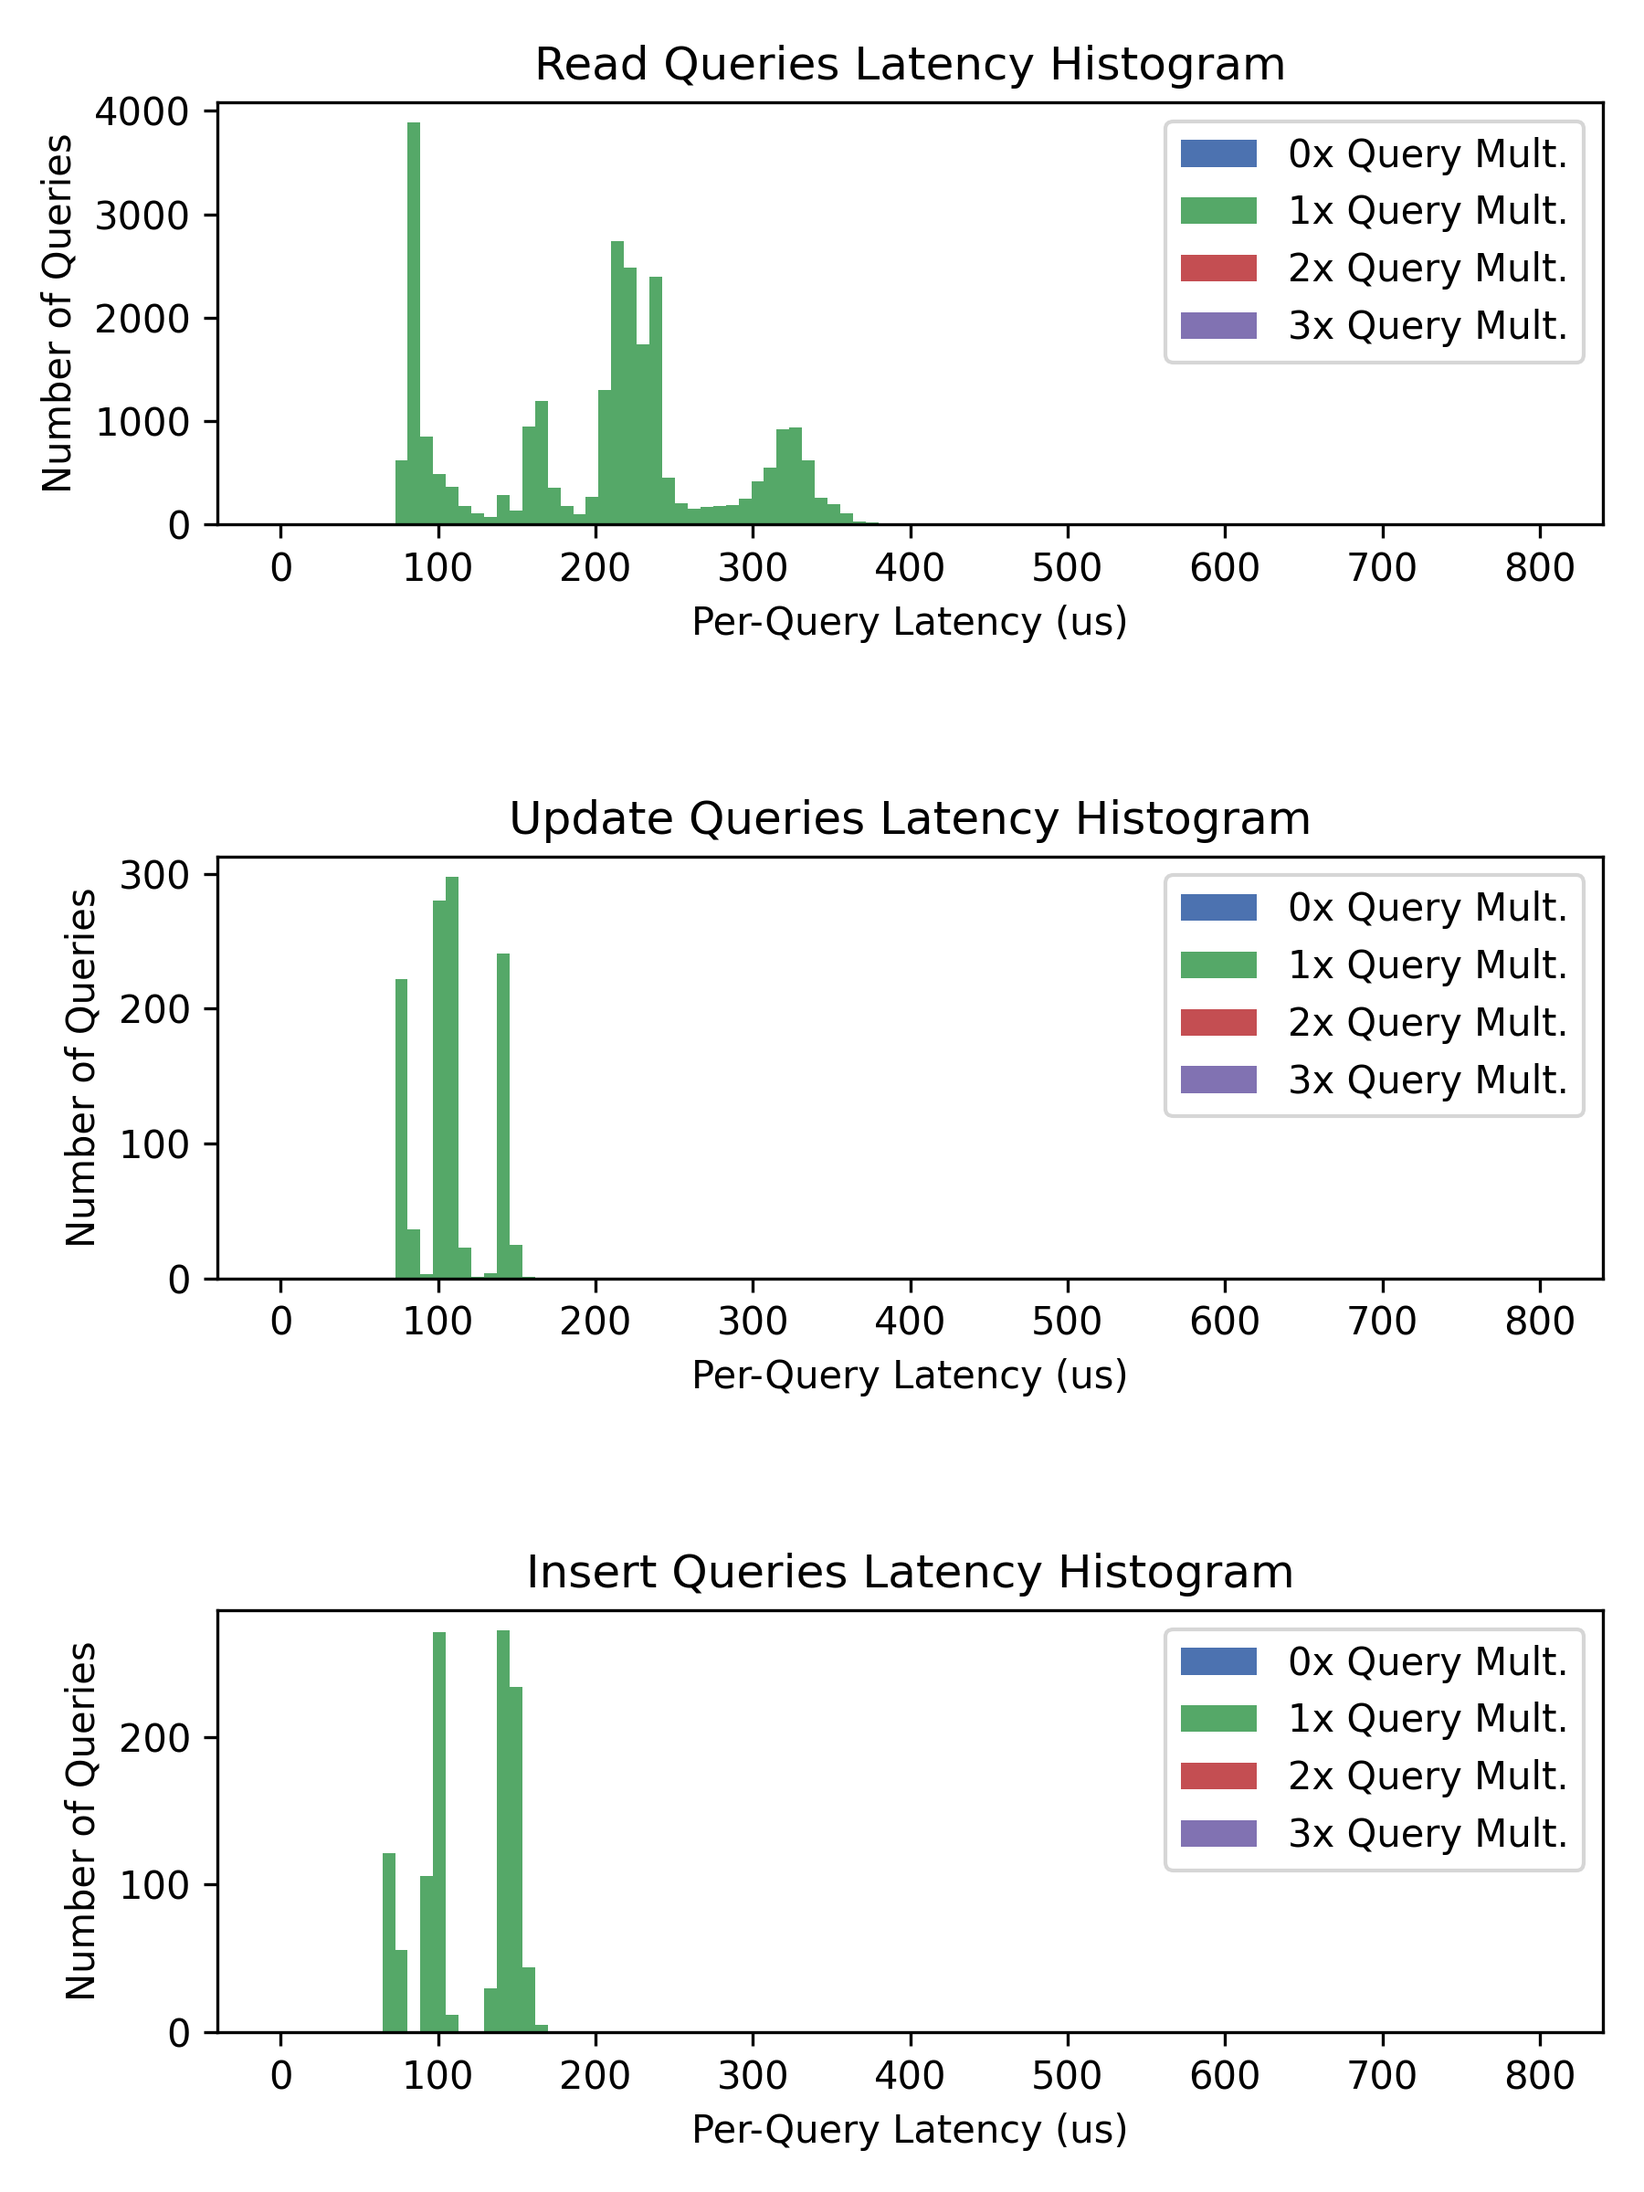
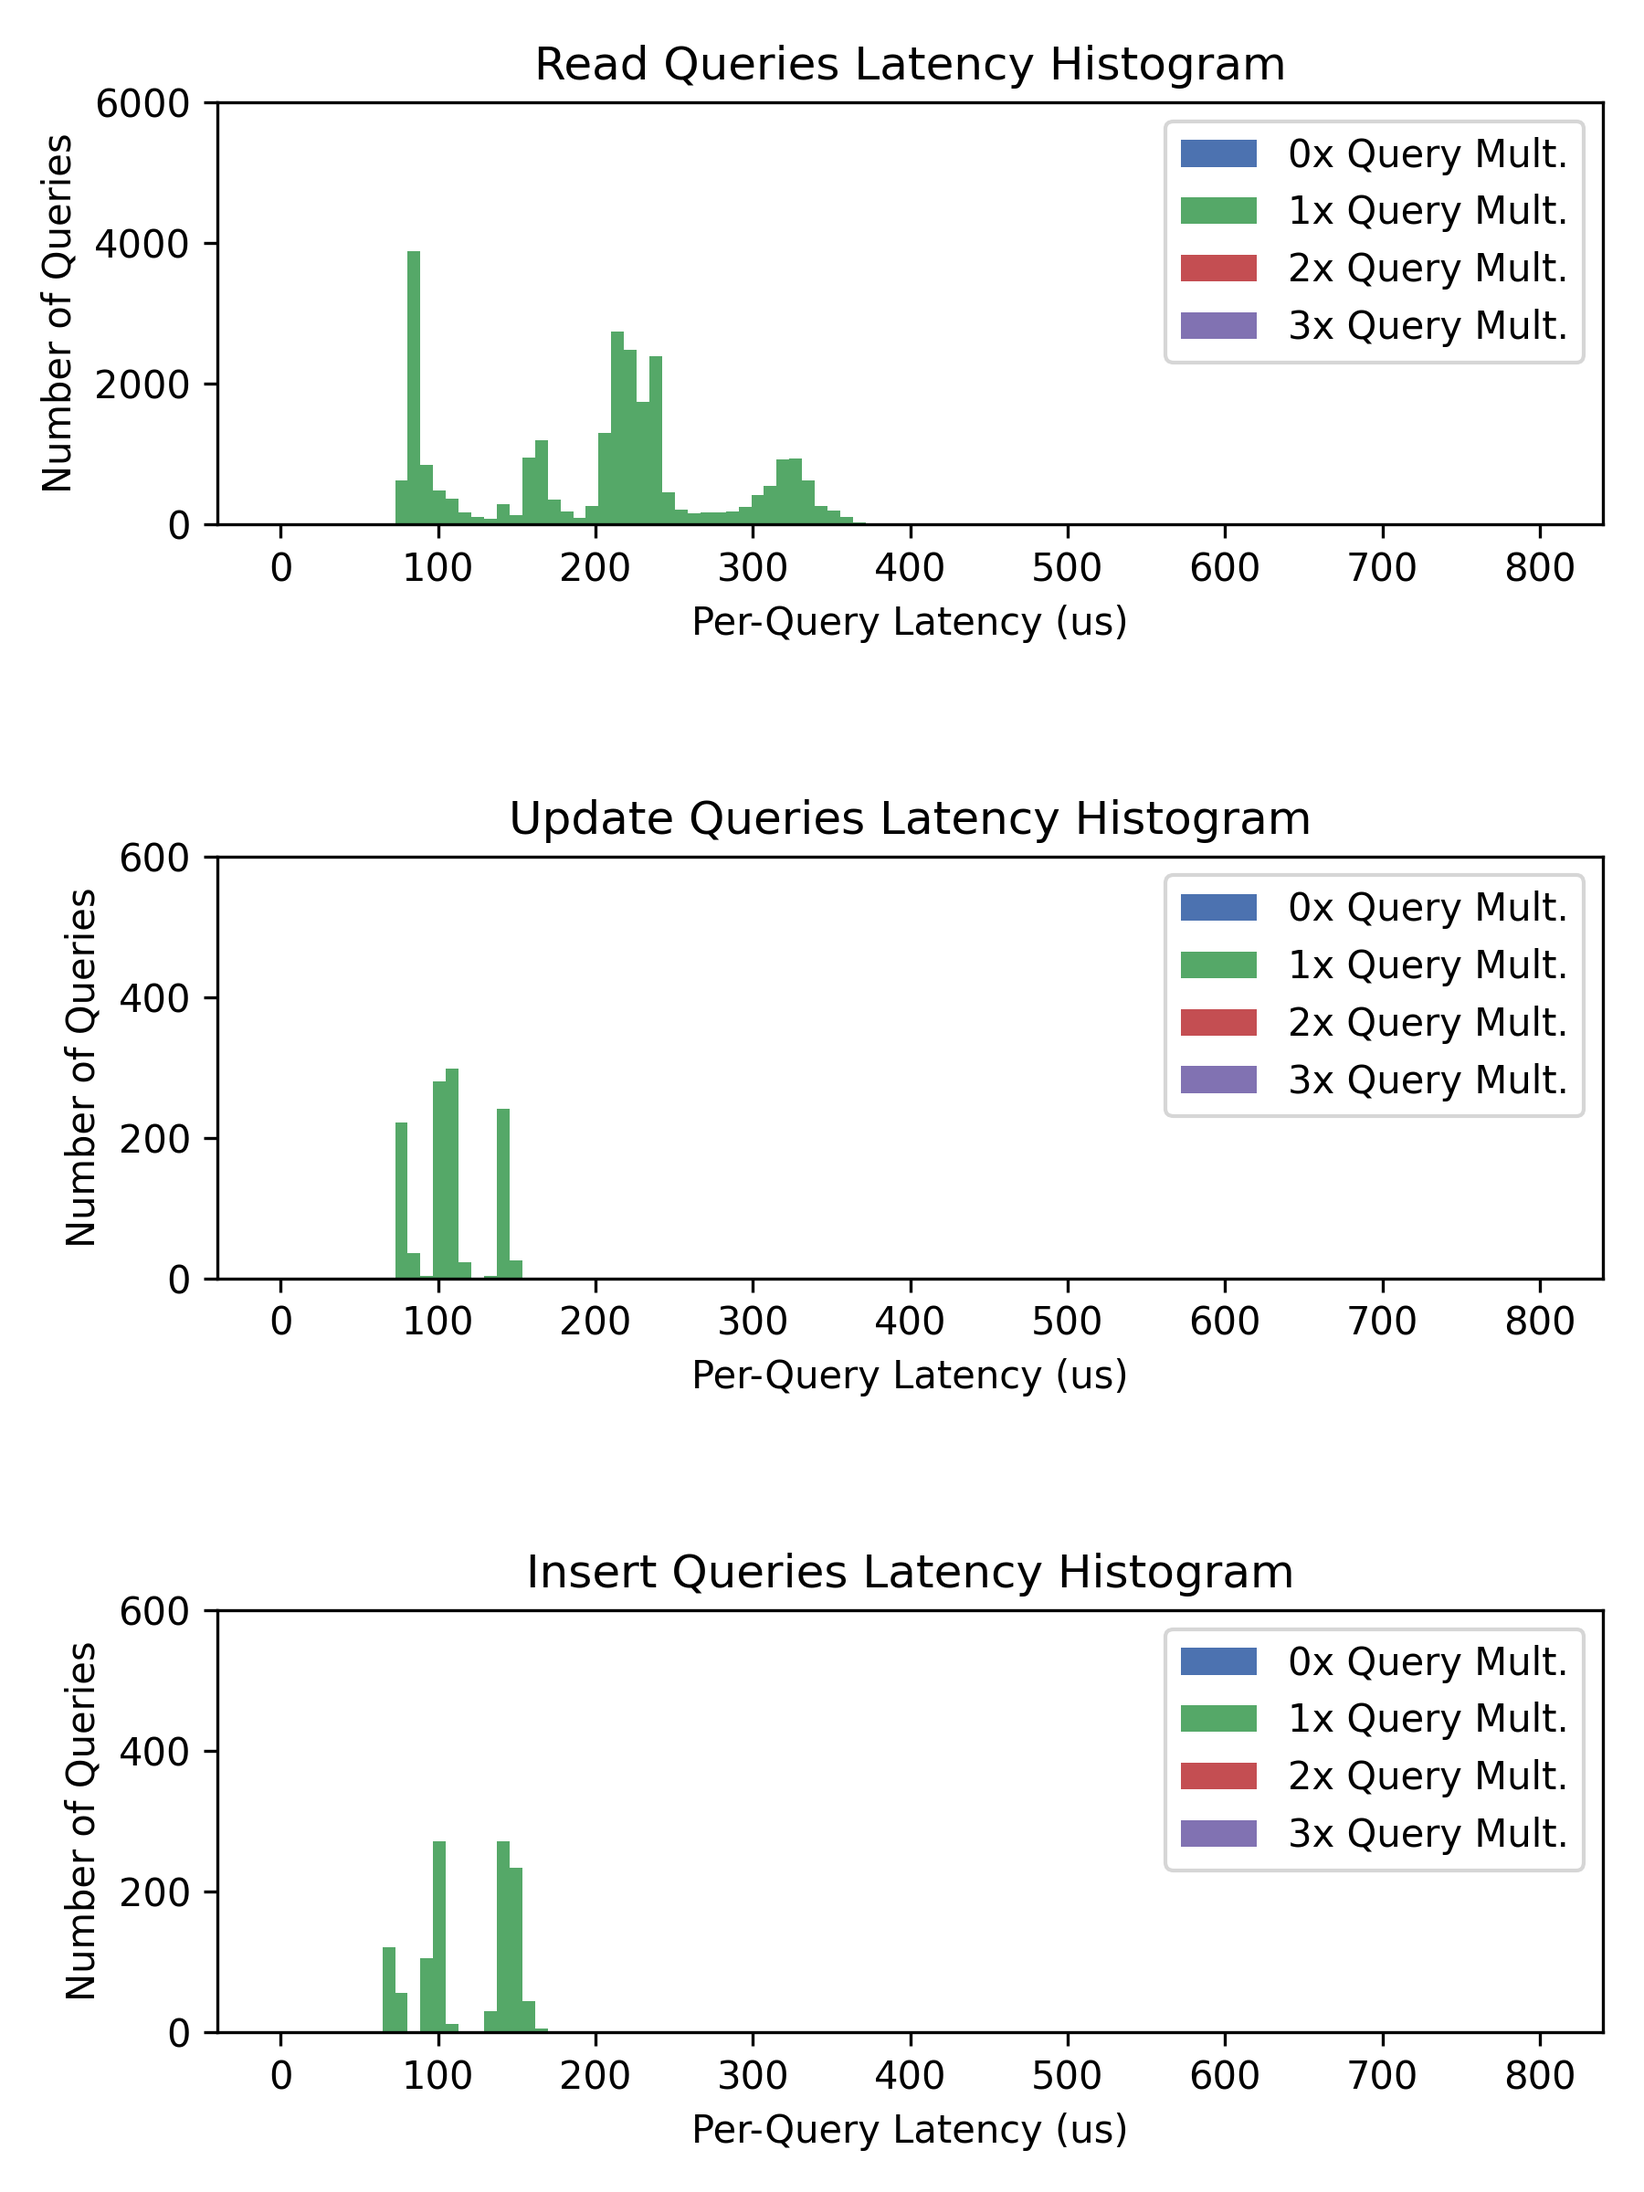
graphs have consistent axes

diff --git a/decor/benchmarks/plot.py b/decor/benchmarks/plot.py
@@ -6,6 +6,7 @@ plt.style.use('seaborn-deep')
 
 tests = ["decor", "shim_only", "shim_parse"]
 names = ["Read", "Update", "Insert", "Other"]
+ybounds = [6000, 600, 600, 600]
 bins = np.linspace(0, 800, 100)
 
 for test in tests:
@@ -25,14 +26,13 @@ for test in tests:
                 if qs > 5:
                     continue
                 q2lats[qs].append(latency)
-            #plt.xscale('log')
-            #ax.yscale('log')
             axes_flat[i].hist(q2lats,
                     bins,
                     stacked=True,
                     label=[str(i) + "x Query Mult." for i in range(len(q2lats))])
             axes_flat[i].legend(loc='upper right')
             axes_flat[i].set_title(names[i]+" Queries Latency Histogram")
+            axes_flat[i].set_ybound(lower=0, upper=ybounds[i])
             axes_flat[i].set_xlabel('Per-Query Latency (us)')
             axes_flat[i].set_ylabel('Number of Queries')
     fig.tight_layout(h_pad=4)
